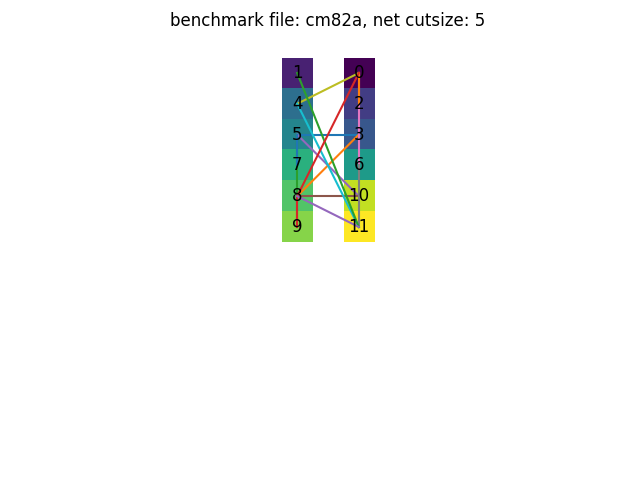
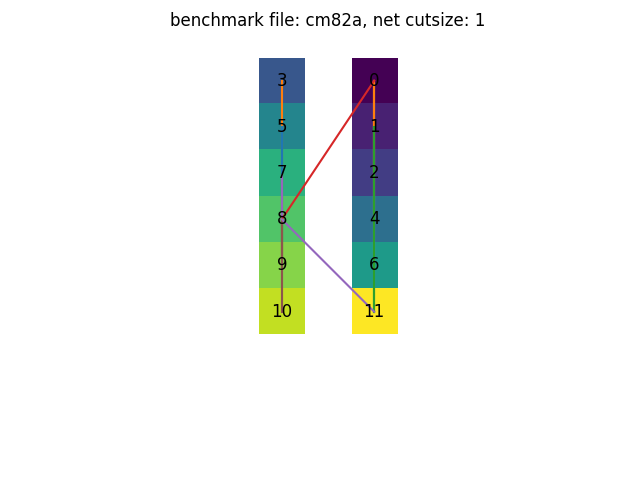
add exit criterion

Changed region(s): [[0.4062, 0.0938, 0.625, 0.7188], [0.75, 0.0312, 0.7812, 0.0625]]

diff --git a/project/refractor/ga.py b/project/refractor/ga.py
@@ -5,6 +5,9 @@ import matplotlib.pyplot as plt
 import matplotlib.patches as patches
 from consolemenu import SelectionMenu
 import math
+from collections import Counter
+
+# todo stopping criteria: stop when 80% of the chromosome has same fitness.
 
 def is_balanced(chromosome):
     """ check the if partition represented by chromosome is balanced
@@ -17,8 +20,10 @@ def is_balanced(chromosome):
         true if the chromosome is balanced
         false if the chromosome is unbalanced
     """
+    num_ones = np.count_nonzero(chromosome)
+    num_zeros = len(chromosome) - num_ones
     
-    return abs(np.count_nonzero(chromosome) - len(chromosome) // 2) <= 1
+    return abs(num_ones - num_zeros) <= 1
 
 def adjust(chromosome):
     """ adjust gene values of chromosome to make it balance
@@ -45,9 +50,7 @@ def adjust(chromosome):
         for idx in index_list:
             chromosome[idx] = 0
 
-
-
-def plot(filename, best_cutsize, best_assignment):
+def partition_visualizetion(filename, best_cutsize, best_assignment):
     """plot best assignment using matplot
     """
     fig, ax = plt.subplots()
@@ -99,6 +102,29 @@ def plot(filename, best_cutsize, best_assignment):
 
     # save figure
     fig.savefig("figs/" + filename[:-4])
+
+def line_chart(mincuts, fitnesses, population_size, filename,):
+    """plot line chart for mincut and fitness value per iteration
+    reference: https://matplotlib.org/devdocs/gallery/subplots_axes_and_figures/subplots_demo.html
+    """
+    if len(mincuts) != len(fitnesses):
+        raise ValueError("plot error. mincuts and fitnesses should be the same length")
+
+    iterations = range(len(mincuts))
+    fig, (ax1, ax2) = plt.subplots(1, 2) # two subplots mincut and fitness
+    fig.suptitle(filename)
+    # ax1: mincut plot
+    ax1.set_title("mincut plot")
+    ax1.plot(iterations, mincuts)
+    ax1.set(xlabel="iterations", ylabel="mincut")
+
+    # ax1: mincut plot
+    ax2.set_title("fitness plot")
+    ax2.plot(iterations, fitnesses)
+    ax2.set(xlabel="iterations", ylabel="fitness")
+
+    plt.show()
+    fig.savefig("figs/" + "{}_line_chart".format(filename))
 
 def parse_file(filepath):
     """ parse benchmarkfile
@@ -322,14 +348,43 @@ def population_fitness(population, fitness_func):
     """
     return sum([fitness_func(chromosome) for chromosome in population])
 
+def exit_criterion(population, cutsize_limit=0):
+    """ return True if at least 80% of chromosome has same fitness or min cutsize <= cutsize_upper_limit
+    1. fitness criteria
+    create a list of fitness and using collections.Counter count fitness occurrence.
+    return True if the most common makes up >= 80% of the population size
+    2. cutsize criteria
+    return True if min cutsize <= cutsize_limit
+    Args:
+        population population List[chromosome]
+    Returns:
+        True: the population meet the exit criterion
+        False: the population does not meet the exit criterion
+    """
+    fitnesses = [calc_fitness(chromosome, population) for chromosome in population]
+    size = len(population)
+    counter = Counter(fitnesses)
+    top = counter.most_common(1)[0][1] # ex. [(5.333333333333334, 6)]
+
+    population_sort_by_cutsize = sorted(population, key=calc_chromo_cutsize) # cutsize from low to high
+    chromosome_mincut = population_sort_by_cutsize[0]
+    min_cutsize = calc_chromo_cutsize(chromosome_mincut)
+    
+    if top >= 0.8 * size or min_cutsize <= cutsize_limit:
+        return True
+    else:
+        return False
+
+
 def ga(
     population_size,
     populate_func,
     fitness_func,
-    cutsize_limit,
     selection_func,
     crossover_func,
     mutation_func,
+    exit_criterion_func,
+    cutsize_limit,
     generation_limit=100):
     """ genetic algorithm
     
@@ -343,24 +398,38 @@ def ga(
         crossover_func: function for crossover between two chromosome
         selection_func: function for selecting a pair of mates from population
         mutation_func: function for mutation
+        exit_criterion_func: function for exit criterion
+        cutsize_limit: cutsize limit used in exit criterion function
         generation_limit: the number of generation we want to go through
     Returns:
         final population after evolution
     """
     population = populate_func(size=population_size, chromosome_length=num_nodes)
+    global mincuts, fitnesses # for plotting
+    # empty lists first
+    mincuts = []
+    fitnesses = []
 
     for i in range(generation_limit):
         
         # sort population. fitness from high to low
-        population = sorted(population, key= lambda chromosome : calc_fitness(chromosome, population))
-        print("generation", i)
+        # population.sort(key= lambda chromosome : calc_fitness(chromosome, population), reverse=True)
+        population = sorted(population, key= lambda chromosome : calc_fitness(chromosome, population), reverse=True)
+        best_fitness = calc_fitness(population[0], population)
+        population_mincut = sorted(population, key=calc_chromo_cutsize)
+        best_cutsize = calc_chromo_cutsize(population_mincut[0])
+        fitnesses.append(best_fitness)
+        mincuts.append(best_cutsize)
 
-        # stop looping if cutsize <= cutsize_limit (default is 0)
-        if calc_chromo_cutsize(population[0]) <= cutsize_limit:
+        print("generation:{}, fit:{}, cutsize:{}".format(i, best_fitness, best_cutsize))
+
+        # stop looping if  we meet the exit criterion
+        if exit_criterion_func(population, cutsize_limit):
             break
         
         # pick the best two from population as the part of the next generation
         next_generation = population[0:2]
+        # next_generation = [population[0]]
 
         for _ in range(len(population) // 2 - 1):
             # pick two to do crossover and mutation to generate next generation
@@ -378,6 +447,13 @@ def ga(
         population = next_generation
     
     # return the final population after evolving
+    # final sort
+    population = sorted(population, key= lambda chromosome : calc_fitness(chromosome, population), reverse=True)
+    best_fitness = calc_fitness(population[0], population)
+    population_mincut = sorted(population, key=calc_chromo_cutsize)
+    best_cutsize = calc_chromo_cutsize(population_mincut[0])
+    fitnesses.append(best_fitness)
+    mincuts.append(best_cutsize)
     return population
 
 if __name__ == "__main__":
@@ -385,6 +461,9 @@ if __name__ == "__main__":
     netlist = []
     num_nets = 0
     num_nodes = 0
+
+    mincuts = []
+    fitnesses = []
     
     # for terminal menu
     directory = "ass3_files/"
@@ -394,15 +473,20 @@ if __name__ == "__main__":
     
     parse_file(filepath)
 
+    # hyper parameters
+    population_size = 20
+    generation_limit = 50
+
     final_population = ga(
-        population_size=10,
+        population_size=population_size,
         populate_func=generate_population,
         fitness_func=calc_fitness,
-        cutsize_limit=0,
         selection_func=select_pairs,
-        crossover_func=single_point_crossover,
+        crossover_func=crossover_with_complement,
         mutation_func=mutation,
-        generation_limit=100)
+        exit_criterion_func=exit_criterion,
+        cutsize_limit=0,
+        generation_limit=generation_limit)
     final_population.sort(key= calc_chromo_cutsize)
     best_chromosome = final_population[0]
     best_assignment = generate_assignment(best_chromosome)
@@ -412,4 +496,6 @@ if __name__ == "__main__":
     best_cutsize: {}
     '''.format(best_assignment, best_cutsize))
     # print("netlist", netlist)
-    plot(filename, best_cutsize, best_assignment)
+    partition_visualizetion(filename, best_cutsize, best_assignment)
+    line_chart(mincuts, fitnesses, population_size, filename[:-4])
+

diff --git a/project/report/report_draft.md b/project/report/report_draft.md
@@ -81,3 +81,21 @@ can maintain a high diversity for a long time and consequently can get good solu
 ## pre-processing
 
 haven’t figure out this part yet
+
+
+
+## notes
+
+experiment with different hyperparameters population size, iteration times,
+
+draw the best cutsize of each generation 折线图
+
+mincut plot and fitness plot similar to [paper](http://www.ijcee.org/papers/136.pdf)
+
+pick some benchmark files to create stacked plot like this?
+
+I am going to just plot for each benchmark file right now
+
+
+
+and also change the mutation prob like table 4.2 in this paper
